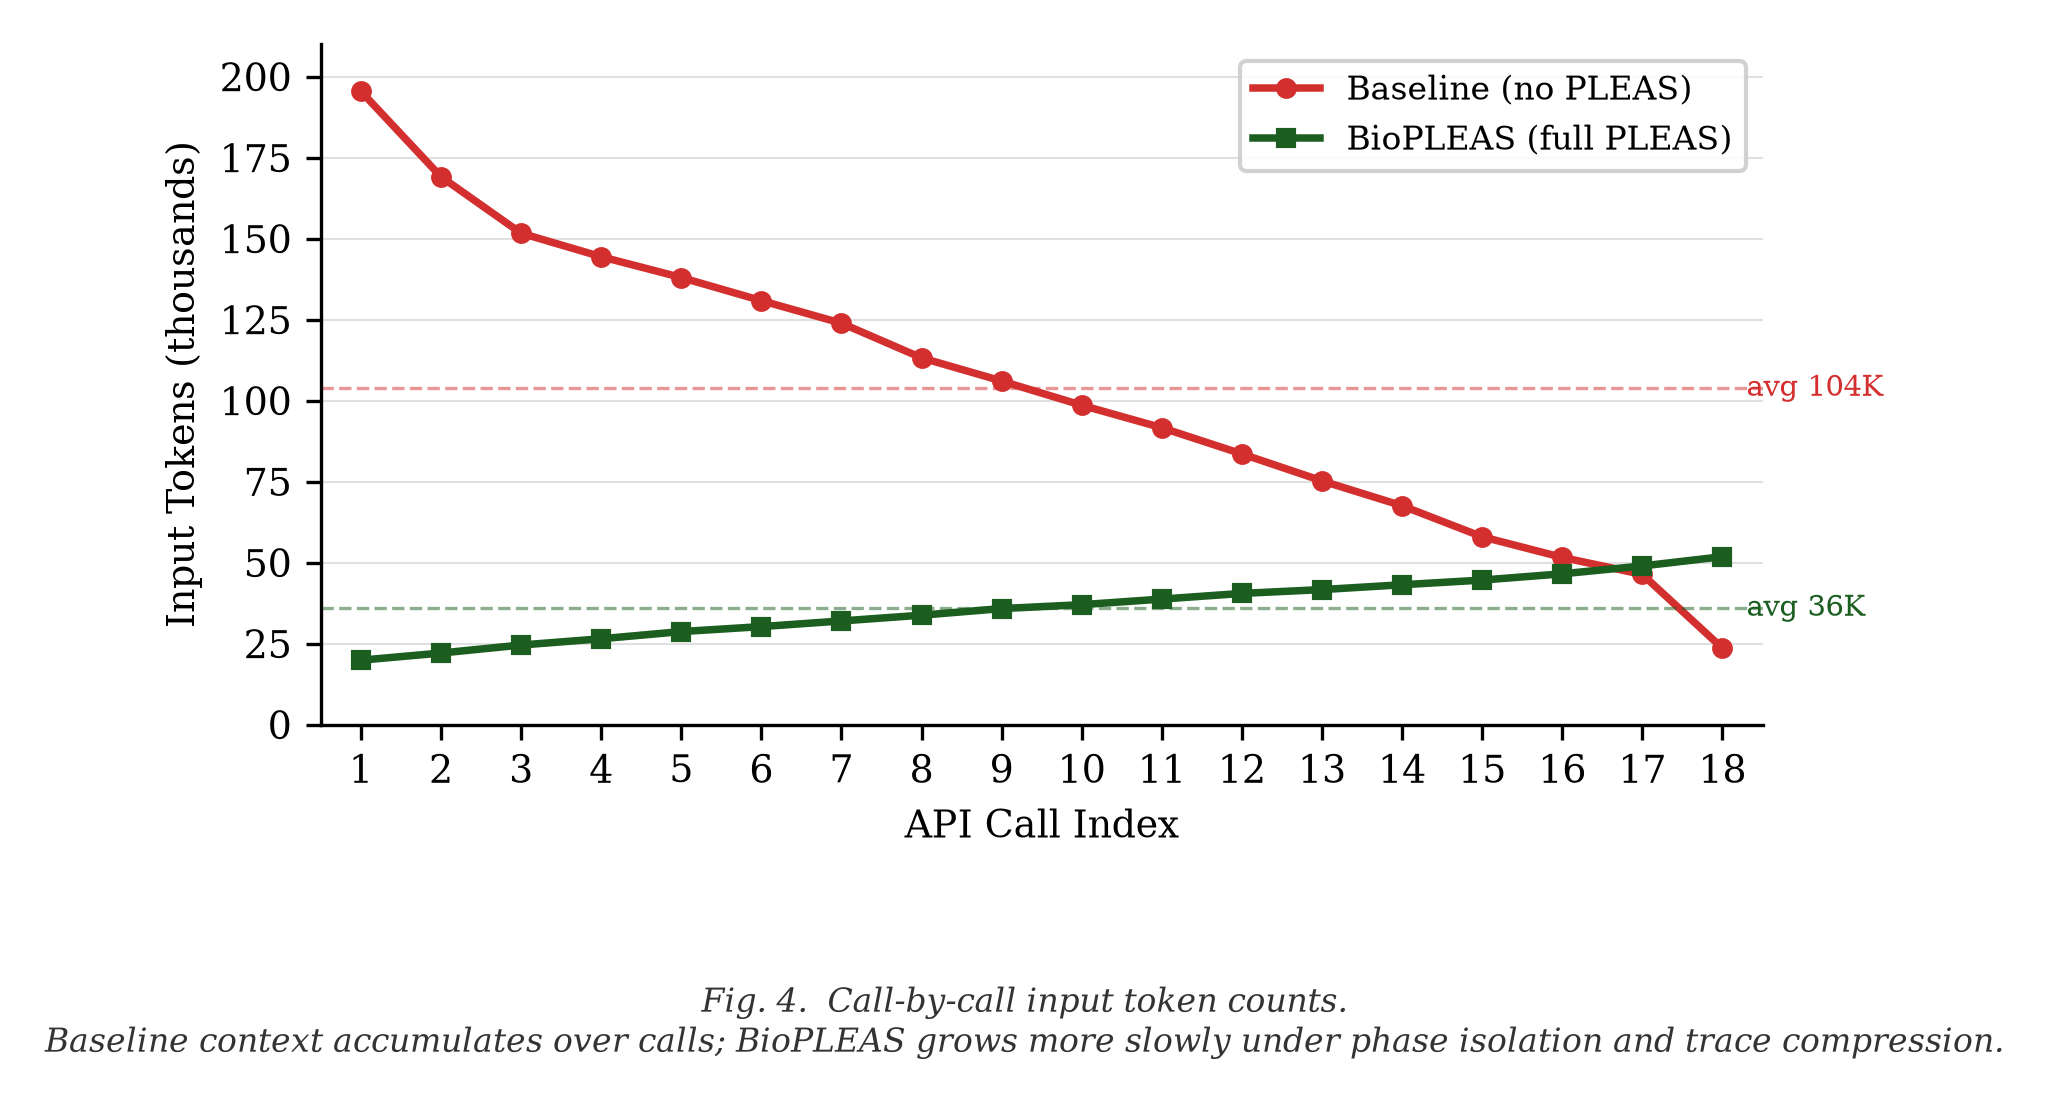
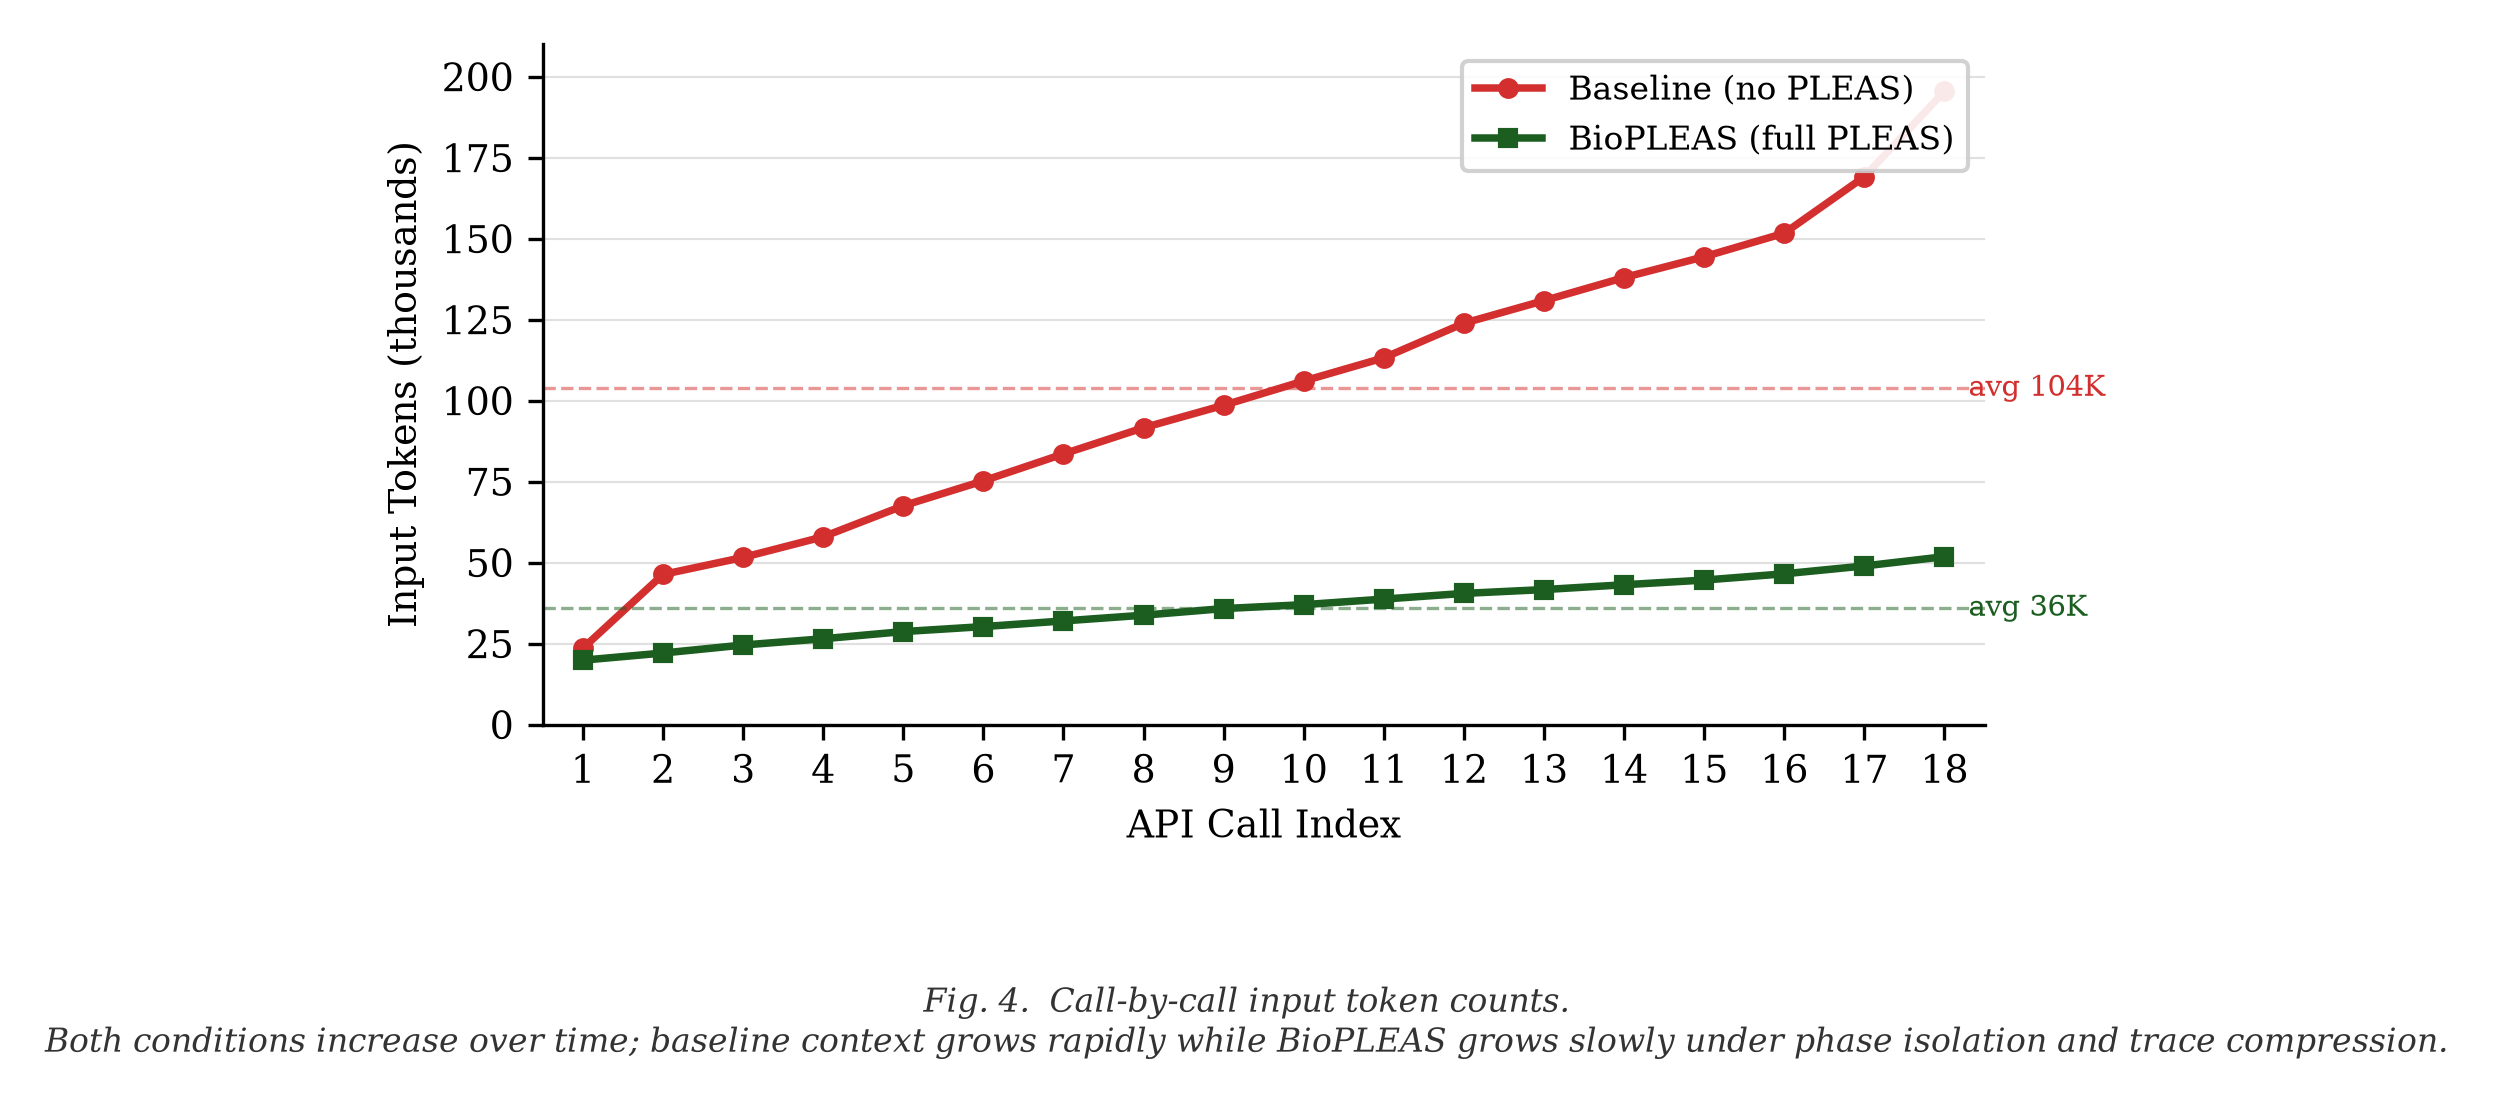
Fix baseline token order and regenerate Fig. 4
Baseline call order was reversed — now correctly shows context
growing over time (24K→195K), matching the paper's Fig. 4.

Claude-Session: https://claude.ai/code/session_01RjFyksQt4N4ugb6K1QDw8d

diff --git a/case_studies/figures/generate_fig4.py b/case_studies/figures/generate_fig4.py
@@ -16,8 +16,8 @@ plt.rcParams.update({
     "figure.dpi": 300,
 })
 
-baseline = [195498, 169117, 151694, 144429, 138003, 130879, 123906, 113217,
-            106071, 98577, 91642, 83565, 75242, 67563, 57984, 51614, 46355, 23591]
+baseline = [23591, 46355, 51614, 57984, 67563, 75242, 83565, 91642,
+            98577, 106071, 113217, 123906, 130879, 138003, 144429, 151694, 169117, 195498]
 
 biopleas = [19896, 22101, 24572, 26506, 28722, 30262, 32009, 33782,
             35821, 37029, 38754, 40504, 41687, 43176, 44624, 46555, 48980, 51845]
@@ -52,7 +52,7 @@ ax.text(18.3, bp_avg, f"avg {bp_avg:.0f}K", fontsize=7, color="#1b5e20", va="cen
 fig.text(
     0.5, -0.02,
     "Fig. 4.  Call-by-call input token counts.\n"
-    "Baseline context accumulates over calls; BioPLEAS grows more slowly under phase isolation and trace compression.",
+    "Both conditions increase over time; baseline context grows rapidly while BioPLEAS grows slowly under phase isolation and trace compression.",
     ha="center", va="top", fontsize=8, style="italic", color="#333333",
 )
 

diff --git a/case_studies/token_analysis/C1_token_reduction_analysis.md b/case_studies/token_analysis/C1_token_reduction_analysis.md
@@ -27,9 +27,9 @@ Paper-ready wording:
 > In screenshot-derived call logs, BioPLEASE reduced average input context from
 > 103,830.4 to 35,934.7 tokens per call, a 65.4% descriptive reduction.
 
-Note: unlike the baseline which decreases over time (195K → 24K as tasks
-complete), BioPLEASE increases over time (20K → 52K) but at a much lower
-absolute level, indicating that phase isolation bounds context growth rate
+Note: both conditions increase over time as context accumulates. The baseline
+grows rapidly (24K → 195K) while BioPLEASE grows slowly (20K → 52K),
+indicating that phase isolation and trace compression bound the growth rate
 even though some accumulation still occurs.
 
 Do not cite Wilcoxon significance, paired task-level statistics, or a 12-task